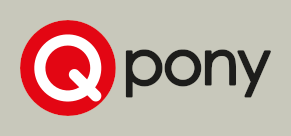
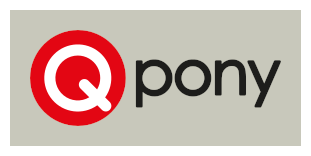
Rebuild CV structure on top of the latest main
- Single h1 with proper h2/h3 hierarchy; employer names as text
- Add alt text to all 32 images and centre screenshot rows
- Drop dead HTML (float=, style=, <br>) and fix the Devoteam link
- Normalise App Store URLs to their ASCII id form
- Pad company logos on white for legible rendering in dark mode
- Add a spoken-languages block incl. Danish B2 (Prøve i Dansk 3)

diff --git a/README.md b/README.md
@@ -1,4 +1,13 @@
-# About me
+# Adrian Kwiatkowski
+
+iOS engineer since 2018, based in Copenhagen. I work with SwiftUI, Swift Concurrency and design systems.
+
+- [kwiatkowski.adrian@icloud.com](mailto:kwiatkowski.adrian@icloud.com)
+- [linkedin.com/in/adrian-kwiatkowski](https://www.linkedin.com/in/adrian-kwiatkowski/)
+
+Jump to: [projects](#projects) · [skills](#skills) · [experience](#experience) · [education](#education)
+
+## About me
 
 My name is Adrian Kwiatkowski and I have been working as an iOS Developer since 2018. During this time, I have worked on a number of projects across different business areas (mainly shopping, social, utility and telecom apps).
 I value working in teams that prize effectiveness and simplicity, and I have a soft spot for modern, minimalistic design and good user experience.
@@ -11,18 +20,7 @@ Since 2023, I have been a part of Too Good To Go, where we focus on minimizing f
 
 Personally, I am friendly and easy-going. I also enjoy an eco-friendly, zero-waste lifestyle, a mindful approach to life, and all kinds of animals.
 
-## Contact info
-
-- [kwiatkowski.adrian@icloud.com](mailto:kwiatkowski.adrian@icloud.com)
-- [linkedin.com/in/adrian-kwiatkowski](https://www.linkedin.com/in/adrian-kwiatkowski/)
-
-### Quick jump to:
-- [Skills](#skills)
-- [Apps](#apps)
-- [Companies](#companies)
-- [Education](#education)
-
-# Skills
+## Skills
 
 **Languages**: Swift 6 (strict concurrency, actors, Sendable, @MainActor)
 
@@ -44,9 +42,15 @@ Personally, I am friendly and easy-going. I also enjoy an eco-friendly, zero-was
 
 **Process & collaboration**: Git, Scrum, Kanban, GitHub, Bitbucket, GitLab, JIRA, Confluence
 
-# Apps
+### Spoken languages
 
-## [Too Good To Go](https://apps.apple.com/app/too-good-to-go-end-food-waste/id1060683933)
+- **Polish** — native
+- **English** — fluent
+- **Danish** — B2 (Prøve i Dansk 3)
+
+## Projects
+
+### [Too Good To Go](https://apps.apple.com/app/id1060683933)
 
 Too Good To Go makes it easy to make a positive impact on the planet while saving money on your favourite foods.
 That's why it's been named as Winner in the '2023 Cultural Impact' category at the prestigious annual Apple App Store Awards. With the #1 app for reducing food waste, you can save tasty unsold snacks, takeaway meals and ingredients straight from shops, cafes, grocery stores and restaurants in your area - all at an unbeatable price.
@@ -62,15 +66,13 @@ What I've learned:
 - **swift-snapshot-testing** with dedicated `xcodebuild` test plans in CI
 - **Claude Code** with multi-agent workflows in daily work
 
-<p float="left">
-  <img src="./assets/apps/tgtg2.png" width="240">
-  <img src="./assets/apps/tgtg3.png" width="240">
-  <img src="./assets/apps/tgtg1.png" width="240">
+<p align="center">
+  <img src="./assets/apps/tgtg2.png" width="240" alt="Too Good To Go screenshot, 1 of 3">
+  <img src="./assets/apps/tgtg3.png" width="240" alt="Too Good To Go screenshot, 2 of 3">
+  <img src="./assets/apps/tgtg1.png" width="240" alt="Too Good To Go screenshot, 3 of 3">
 </p>
 
-<br>
-
-## [Jabra Sound+](https://apps.apple.com/app/jabra-sound/id1320805565)
+### [Jabra Sound+](https://apps.apple.com/app/id1320805565)
 
 The Jabra Sound+ app is the perfect companion for your Jabra headphones - adding extra features and enabling you to personalize the way you use your Jabra headphones.
 
@@ -82,15 +84,13 @@ What I've learned:
 - writing code that uses **async/await**
 - working in a large product team (30+ people)
 
-<p float="left">
-  <img src="./assets/apps/jabra1.jpg" width="240">
-  <img src="./assets/apps/jabra2.jpg" width="240">
-  <img src="./assets/apps/jabra3.jpg" width="240">
+<p align="center">
+  <img src="./assets/apps/jabra1.jpg" width="240" alt="Jabra Sound+ screenshot, 1 of 3">
+  <img src="./assets/apps/jabra2.jpg" width="240" alt="Jabra Sound+ screenshot, 2 of 3">
+  <img src="./assets/apps/jabra3.jpg" width="240" alt="Jabra Sound+ screenshot, 3 of 3">
 </p>
 
-<br>
-
-## Folketinget
+### Folketinget
 
 An app which allows the members of the Danish Parliament to better manage their everyday activities and obtain the right information for the meetings and committees they attend. This was an iPad only app.
 
@@ -102,9 +102,7 @@ What I've learned:
 
 *Screenshots unavailable due to NDA.*
 
-<br>
-
-## Kai
+### Kai
 
 New onboarding solution to help new hearing aid users adapt to their new lives and to get familiar with their new devices. **Azure** cloud was used for backend. App content and user journeys managed in an open source **headless CMS (Strapi)**.
 
@@ -116,15 +114,13 @@ What I've learned:
 - using **SwiftUI** to create views
 - **Combine** framework to pass the data between components
 
-<p float="left">
-  <img src="./assets/apps/kai1.png" width="240">
-  <img src="./assets/apps/kai2.png" width="240">
-  <img src="./assets/apps/kai3.png" width="240">
+<p align="center">
+  <img src="./assets/apps/kai1.png" width="240" alt="Kai screenshot, 1 of 3">
+  <img src="./assets/apps/kai2.png" width="240" alt="Kai screenshot, 2 of 3">
+  <img src="./assets/apps/kai3.png" width="240" alt="Kai screenshot, 3 of 3">
 </p>
 
-<br>
-
-## Obostrzenia
+### Obostrzenia
 
 The app was supposed to show the current governmental restrictions (caused by COVID-19 pandemic) in Poland, based on user's location. Together with my friend, we created the **MVP** in **Flutter** and submitted it to the App Store and Google Play.
 
@@ -136,14 +132,12 @@ What I've learned:
 - **geolocator** to fetch user's location data
 - **permission_handler** to work with user's permissions
 
-<p float="left">
-  <img src="./assets/apps/obostrzenia1.jpg" width="240">
-  <img src="./assets/apps/obostrzenia2.jpg" width="240">
+<p align="center">
+  <img src="./assets/apps/obostrzenia1.jpg" width="240" alt="Obostrzenia screenshot, 1 of 2">
+  <img src="./assets/apps/obostrzenia2.jpg" width="240" alt="Obostrzenia screenshot, 2 of 2">
 </p>
 
-<br>
-
-## [HiHi Connect 2](https://apps.apple.com/app/hihi-connect-2/id1532249807)
+### [HiHi Connect 2](https://apps.apple.com/app/id1532249807)
 
 Application that allows audio and video calling using **Session Initiation Protocol (SIP)**. Users can also store contacts, synchronize them and view their presence (using **XMPP**).
 
@@ -157,15 +151,13 @@ What I've learned:
 - **CoreData** to store and synchronize data fetched from the API (company contacts, calls history)
 - **linphoneSDK** - a library that integrates SIP voice/video features
 
-<p float="left">
-  <img src="./assets/apps/hihi1.png" width="240">
-  <img src="./assets/apps/hihi2.png" width="240">
-  <img src="./assets/apps/hihi3.png" width="240">
+<p align="center">
+  <img src="./assets/apps/hihi1.png" width="240" alt="HiHi Connect 2 screenshot, 1 of 3">
+  <img src="./assets/apps/hihi2.png" width="240" alt="HiHi Connect 2 screenshot, 2 of 3">
+  <img src="./assets/apps/hihi3.png" width="240" alt="HiHi Connect 2 screenshot, 3 of 3">
 </p>
 
-<br>
-
-## Social Networking App
+### Social Networking App
 
 This project was a social network app that allows users to search for groups related to their interests/hobbies and post text, images, videos and links based on their permissions/group access.
 
@@ -179,9 +171,7 @@ What I've learned:
 
 *Screenshots unavailable due to NDA.*
 
-<br>
-
-## Seaber
+### Seaber
 
 An award-winning IoT mobile app which allows boat owners to be notified of unauthorised movement of their vessels, with sophisticated map integration and social networking features.
 
@@ -194,14 +184,12 @@ What I've learned:
 - **SnapKit** as a DSL for **AutoLayout**
 - implementing **Stripe** payments
 
-<p float="left">
-  <img src="./assets/apps/seaber1.png" width="240">
-  <img src="./assets/apps/seaber2.png" width="240">
+<p align="center">
+  <img src="./assets/apps/seaber1.png" width="240" alt="Seaber screenshot, 1 of 2">
+  <img src="./assets/apps/seaber2.png" width="240" alt="Seaber screenshot, 2 of 2">
 </p>
 
-<br>
-
-## [Zdrowe Zakupy](https://apps.apple.com/pl/app/zdrowe-zakupy/id1200020785)
+### [Zdrowe Zakupy](https://apps.apple.com/app/id1200020785)
 
 Zdrowe Zakupy is an application that helps you buy products that do not contain harmful ingredients. After scanning the product's barcode, you can check the specific ingredients and their possible harmfulness.
 
@@ -214,15 +202,13 @@ What I've learned:
 - implementing **Rewarded Video Ads**
 - the process of submitting a new app to the **App Store**
 
-<p float="left">
-  <img src="./assets/apps/zdrowe_zakupy1.jpg" width="240">
-  <img src="./assets/apps/zdrowe_zakupy2.jpg" width="240">
-  <img src="./assets/apps/zdrowe_zakupy3.jpg" width="240">
+<p align="center">
+  <img src="./assets/apps/zdrowe_zakupy1.jpg" width="240" alt="Zdrowe Zakupy screenshot, 1 of 3">
+  <img src="./assets/apps/zdrowe_zakupy2.jpg" width="240" alt="Zdrowe Zakupy screenshot, 2 of 3">
+  <img src="./assets/apps/zdrowe_zakupy3.jpg" width="240" alt="Zdrowe Zakupy screenshot, 3 of 3">
 </p>
 
-<br>
-
-## [Qpony](https://apps.apple.com/app/qpony-promocje-kupony-zniżki/id585176404)
+### [Qpony](https://apps.apple.com/app/id585176404)
 
 The most popular discount app in Poland. The best and most up-to-date coupons and leaflets in one application. Here you will find a database of coupons, sales, discounts and promotional leaflets for popular retail chains.
 
@@ -234,15 +220,13 @@ What I've learned:
 - becoming more familiar with **CocoaPods**
 - working with analytic tools like **Crashlytics** and **Clevertap**
 
-<p float="left">
-  <img src="./assets/apps/qpony1.jpg" width="240">
-  <img src="./assets/apps/qpony2.jpg" width="240">
-  <img src="./assets/apps/qpony3.jpg" width="240">
+<p align="center">
+  <img src="./assets/apps/qpony1.jpg" width="240" alt="Qpony screenshot, 1 of 3">
+  <img src="./assets/apps/qpony2.jpg" width="240" alt="Qpony screenshot, 2 of 3">
+  <img src="./assets/apps/qpony3.jpg" width="240" alt="Qpony screenshot, 3 of 3">
 </p>
 
-<br>
-
-## [Blix](https://apps.apple.com/app/blix-gazetki-lista-zakupów/id1012288672)
+### [Blix](https://apps.apple.com/app/id1012288672)
 
 Blix is a free application with leaflets of the most popular retail chains in Poland and a convenient and simple shopping list. Additionally, thanks to the intelligent product search engine, you can check where you can buy the cheapest product.
 
@@ -255,15 +239,13 @@ What I've learned:
 - working with **deeplinks** and **Branch.io**
 - creating simple lanes with **fastlane**
 
-<p float="left">
-  <img src="./assets/apps/blix1.jpg" width="240">
-  <img src="./assets/apps/blix2.jpg" width="240">
-  <img src="./assets/apps/blix3.jpg" width="240">
+<p align="center">
+  <img src="./assets/apps/blix1.jpg" width="240" alt="Blix screenshot, 1 of 3">
+  <img src="./assets/apps/blix2.jpg" width="240" alt="Blix screenshot, 2 of 3">
+  <img src="./assets/apps/blix3.jpg" width="240" alt="Blix screenshot, 3 of 3">
 </p>
 
-<br>
-
-## Skidki i Akcii
+### Skidki i Akcii
 
 Skidki i Akcii is a free application that helps users avoid lengthy searches for discounts in supermarkets, leaflets, and on the Internet.
 
@@ -276,15 +258,15 @@ What I've learned:
 - working with advanced **Auto Layout** and **UIKit**
 - implementing **Google Ads**
 
-<p float="left">
-  <img src="./assets/apps/skidki.png" width="320">
+<p align="center">
+  <img src="./assets/apps/skidki.png" width="320" alt="Skidki i Akcii screenshot">
 </p>
 
-<br>
+## Experience
 
-# Companies
+### Too Good To Go
 
-## [<img src="./assets/companies/tgtg.png" style="background-color:whitesmoke;padding:0px;" height="80">](https://www.toogoodtogo.com)
+[<img src="./assets/companies/tgtg.png" height="80" alt="Too Good To Go logo">](https://www.toogoodtogo.com)
 
 **Senior iOS Software Engineer**, *March 2023 - present*
 
@@ -301,9 +283,9 @@ My responsibilities:
 - modernizing CI for the design system - release automation, semver detection, and snapshot-testing workflows
 - helping define company-wide guidelines for working with AI tools - rules, skills, and good practices
 
-<br>
+### Devoteam (Creative Tech)
 
-## [<img src="./assets/companies/devoteam.png" style="background-color:whitesmoke;padding:0px;" height="80">](https://creativetech-se.devoteam.com)
+[<img src="./assets/companies/devoteam.png" height="80" alt="Devoteam logo">](https://www.devoteam.com/)
 
 **iOS Developer**, *February 2021 - February 2023* (originally **Jayway**, later merged with Devoteam Creative Tech)
 
@@ -317,9 +299,9 @@ My responsibilities:
 - working with multiple Bluetooth SDKs (**CoreBluetooth**, **GaiaSDK**, **GNP**) for hearing-aid and headphone device communication
 - collaborating with international product teams across different client engineering cultures
 
-<br>
+### itCraft
 
-## [<img src="./assets/companies/itcraft.png" style="background-color:whitesmoke;padding:16px;" height="60">](https://itcraftapps.com)
+[<img src="./assets/companies/itcraft.png" height="60" alt="itCraft logo">](https://itcraftapps.com)
 
 **iOS Developer**, *May 2019 - January 2021*
 
@@ -333,9 +315,9 @@ My responsibilities:
 - applying patterns and libraries appropriate to each codebase (**MVVM**, **RxSwift**, **CoreData**, **CallKit**, **PushKit**)
 - collaborating directly with clients, product owners, and cross-functional teams
 
-<br>
+### Qpony
 
-## [<img src="./assets/companies/qpony.png" style="background-color:whitesmoke;padding:16px;" height="60">](https://www.qpony.pl)
+[<img src="./assets/companies/qpony.png" height="60" alt="Qpony logo">](https://www.qpony.pl)
 
 **Junior iOS Developer**, *August 2018 - April 2019*
 
@@ -349,9 +331,9 @@ My responsibilities:
 - working with analytics tooling (**Crashlytics**, **Clevertap**) for release monitoring
 - first commercial iOS role - formative period learning Swift, Xcode, **CocoaPods**, and large-scale codebase patterns
 
-<br>
+### Unit4
 
-## [<img src="./assets/companies/unit4.png" style="background-color:whitesmoke;padding:16px;" height="40">](https://www.unit4.com)
+[<img src="./assets/companies/unit4.png" height="40" alt="Unit4 logo">](https://www.unit4.com)
 
 **System Analyst / IT Support Consultant**, *June 2016 - July 2018*
 
@@ -365,23 +347,20 @@ My responsibilities:
 - handling high-priority escalations against customer SLAs
 - delivering internal training within the area of expertise
 
-<br>
+## Education
 
-# Education
+### Nicolaus Copernicus University in Toruń
 
-## [<img src="./assets/companies/umk.png" style="background-color:whitesmoke;padding:8px;" height="80" >](https://www.umk.pl/en)
+[<img src="./assets/companies/umk.png" height="80" alt="Nicolaus Copernicus University logo">](https://www.umk.pl/en)
 
 *October 2012 - June 2017*
 
-**Information Technology**, Engineer's degree<br>
+**Information Technology**, Engineer's degree
+
 Thesis project: **TODO** - a web application for managing task lists (yes, the app was literally called "TODO")
 
-<br>
-
-## Courses
+### Courses
 
 - [**iOS Lead Essentials**](https://www.essentialdeveloper.com/p/ios-lead-essentials/) by Essential Developer - TDD, modular design, Clean Architecture, advanced testing patterns
 
-<br>
-
-[↑ Back to top](#about-me)
+[↑ Back to top](#adrian-kwiatkowski)
